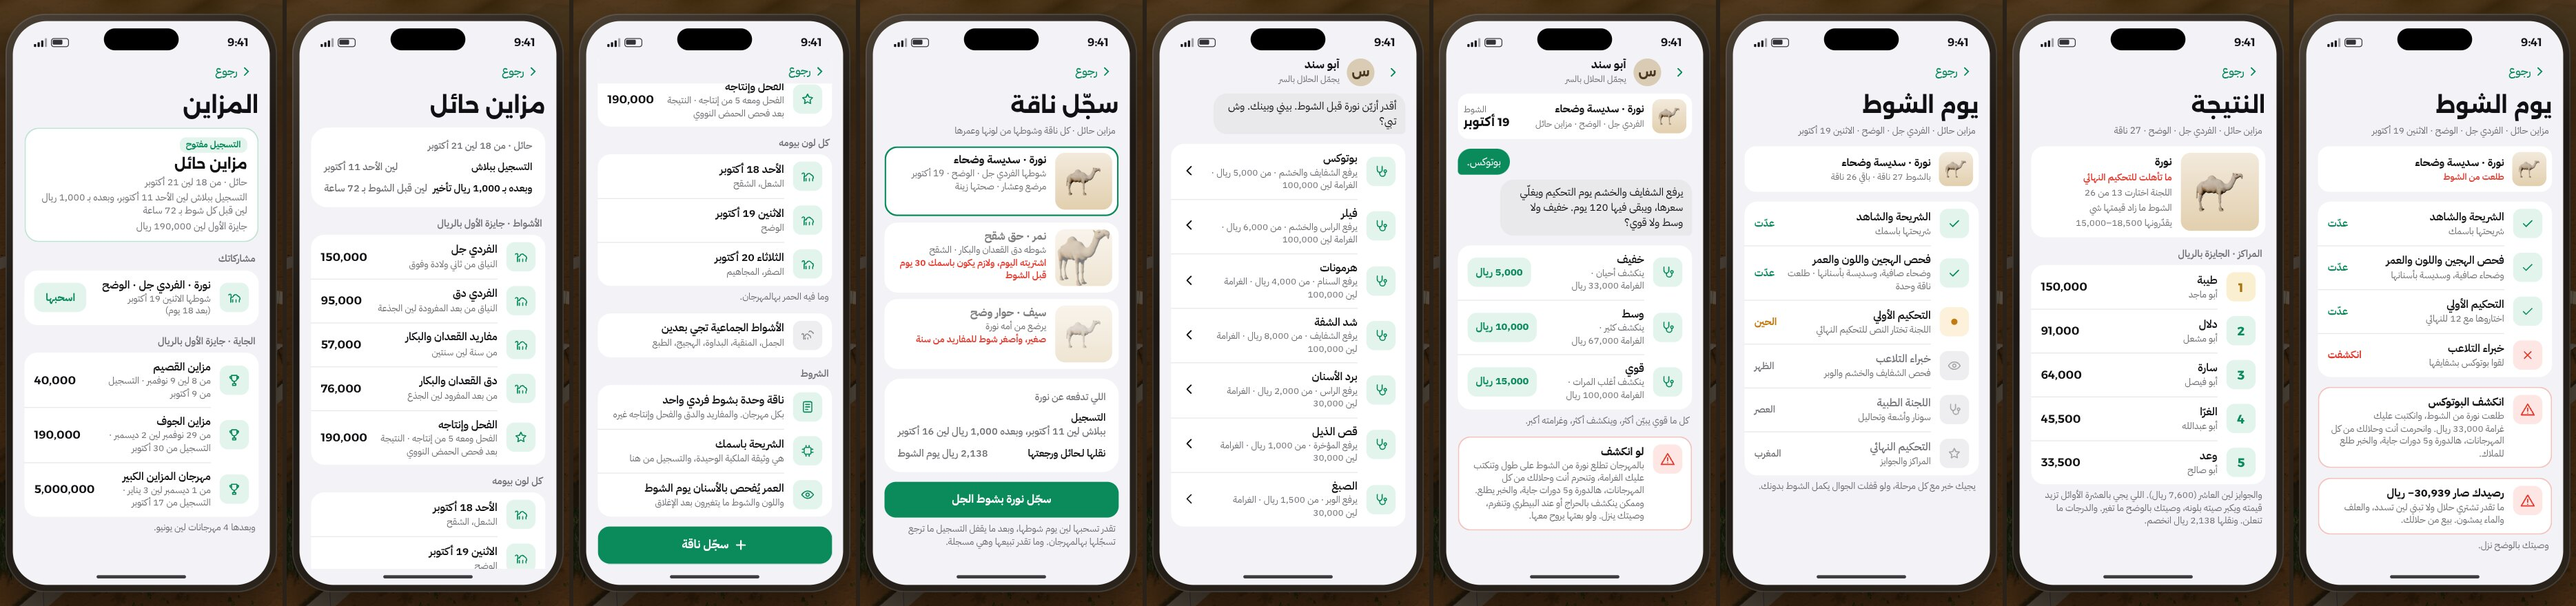
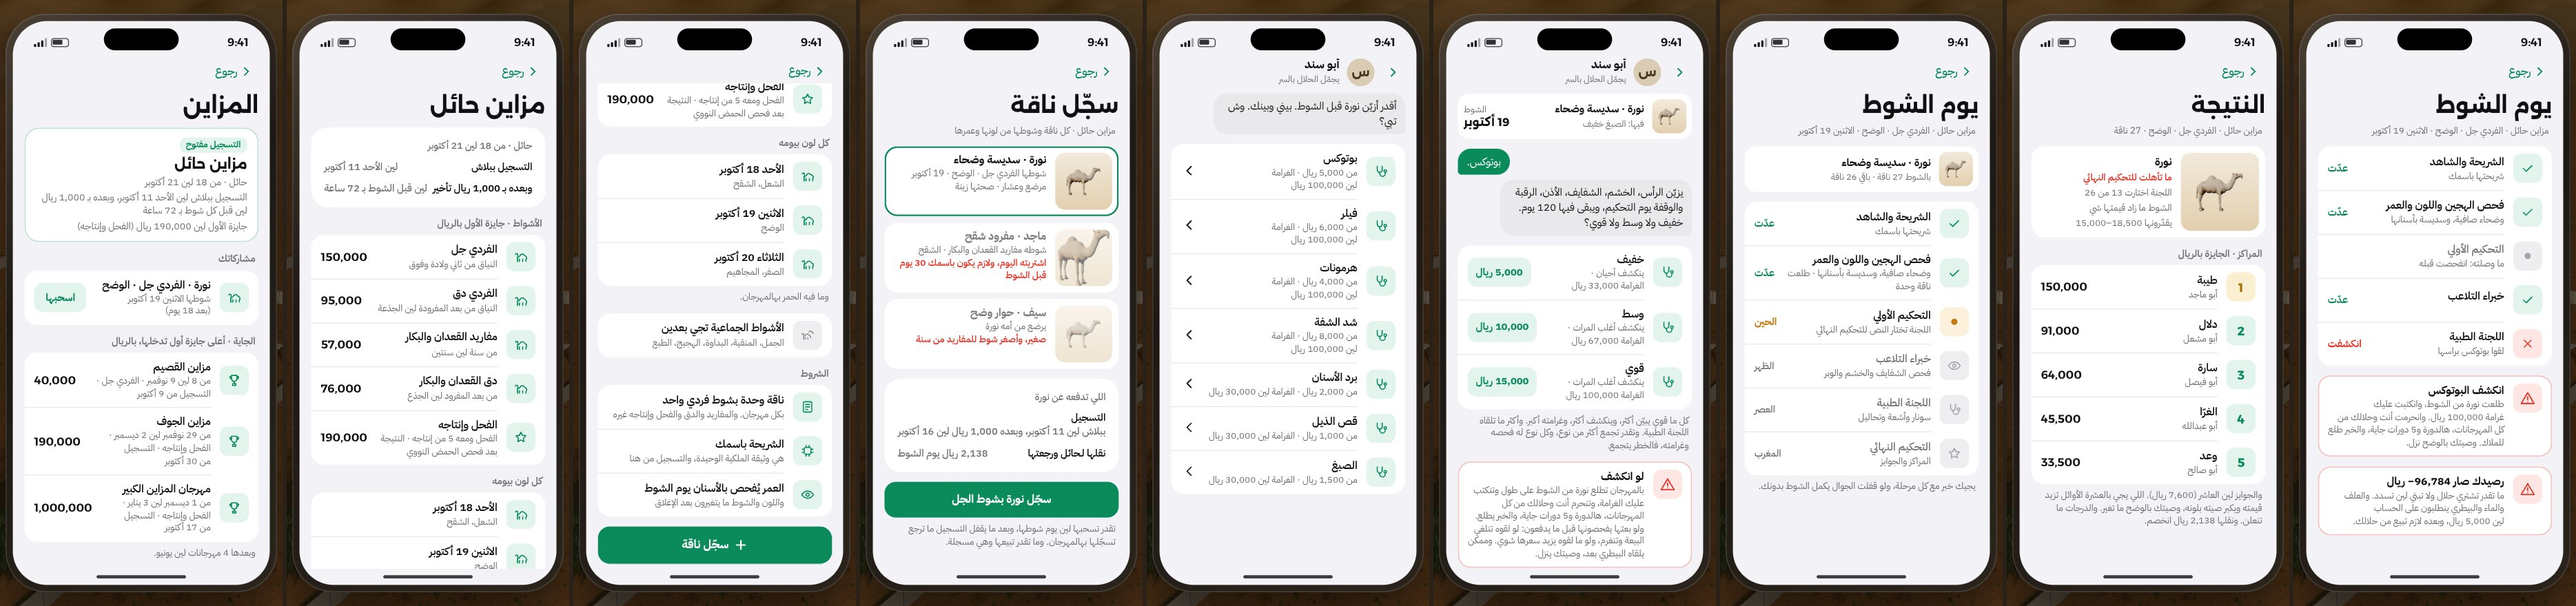
المزاين on T3's final engine: round 3 findings, decisions 9-13, the caught day played
Rebased onto wt/t3 21dd706. The caught view is now played, not drawn: a
third fast game treats نورة (Botox, strong), enters her, and the medical
committee finds it (fine 100,000, ban through 2031, the balance below zero,
the account for feed, water and the vet). Festival rows show the highest
first prize a player can enter for, with its round. Risk in the engine's
bands with who finds a kind most; the feature names as the engine's catalog
has them; stacking and the examination at sale in the warning; a kind
already on her on the strip; the kind rows as buttons for a screen reader;
reputation compared before and after. The camel bought too recently is now
picked from the market by rule (T3's market has no نمر). Layout audit: no
view clipped, split or below the fold except the festival's two views.

Claude-Session: https://claude.ai/code/session_01MLonhqocXpQK4avaG2Yu99

diff --git a/design/ui/README.md b/design/ui/README.md
@@ -9,7 +9,7 @@ These mockups were reviewed by agents and approved by the owner. Only the inform
 | `phone_supplies.html`, `phone_supplies_water.jpg`, `phone_supplies_feed.jpg` | الوايت and العلف in the phone, and the home screen's date and season (approved 2026-11-12). Add `&big=1` to see a screen as the game enlarges it. |
 | `phone_start_home.jpg`, `phone_start_milk.jpg`, `phone_start_build.jpg` (drawn by `phone_start.cjs`) | The new start (one nursing she-camel and her calf, SAR 20,000): the home screen with الحليب, العزبة and الحراج, the milk app (sold every day; how much is left for the calf) and the farm app (what you have, and the facilities you can buy and their prices), approved 2026-11-13. |
 | `phone_haraj.jpg` (drawn by `phone_haraj.cjs` with `phone_haraj.css`) | الحراج on the engine: the listings, a camel's page (buy, or haggle three times a seller), selling one's own camel (listed at one's price or to the broker now), and one's listings with their offers; the old design's «على السوم» tab and live auction left out (every listing takes offers; the auctions come later), approved 2026-11-13. |
-| `phone_mazayen.jpg` (drawn by `phone_mazayen.cjs`) | **Awaiting the owner's approval.** المزاين on the festival engine (GDD 7 and 7.1, the owner's festival decisions of 2026-11-13), in nine views from a real game (seed 4242, 1 October 2026, one copy played on a fast clock to the round's places): the festivals (the one open, the player's entry and its withdrawal, the coming ones by their days); a festival in two views (its individual rounds and first prizes, each colour's day, free then late registration closing 72 hours before the round, the group rounds only as coming later, the rules); registering (each camel with its round or the engine's own refusal, and the cost); the secret treatment in a chat (the seven kinds, then light, middle or strong with each one's price, fine and how often it is found, in words); the round's day (the six stages from الشريحة والشاهد, told one by one); the results (placings and prizes only, no scores); and the day a treatment is found (the fine, the ban from every festival, the balance below zero and what it blocks). Every figure the engine has is taken from it; the rest are placeholders listed in the session's report. |
+| `phone_mazayen.jpg` (drawn by `phone_mazayen.cjs`) | **Awaiting the owner's approval.** المزاين on the festival engine (GDD 7 and 7.1, the owner's festival decisions of 2026-11-13), in nine views from real games on seed 4242 (1 October 2026; copies played on a fast clock to the round's day): the festivals (the one open, the player's entry and its withdrawal, the coming ones by their days and the highest first prize a player can enter for); a festival in two views (its individual rounds and first prizes, each colour's day, free then late registration closing 72 hours before the round, the group rounds only as coming later, the rules); registering (each camel with its round or the engine's refusal, and the cost); the secret treatment in a dealer's chat (the seven kinds, then light, middle or strong with each one's price, fine and risk in words; kinds stack and the risk adds up; the examination at a sale); the round's day (the six stages from الشريحة والشاهد, told one by one); the results (placings and prizes only, no scores); and the day a treatment is found, played in a game, not drawn from rules (the fine, the ban from every festival, the balance below zero, the account for feed, water and the vet). Every figure is the engine's; what is still copied or a placeholder is listed in the session's report. Where cheating lives (the dealer's chat as drawn) and how the chat is reached are the owner's to say. |
 
 ## The map HUD
 
